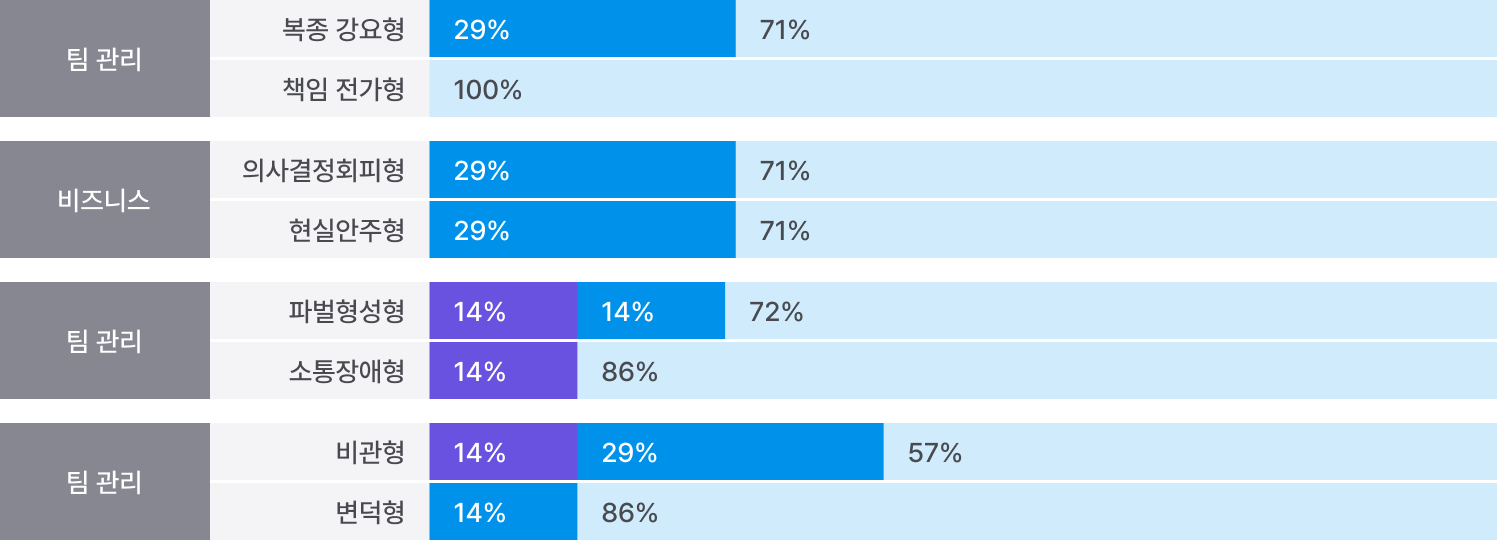
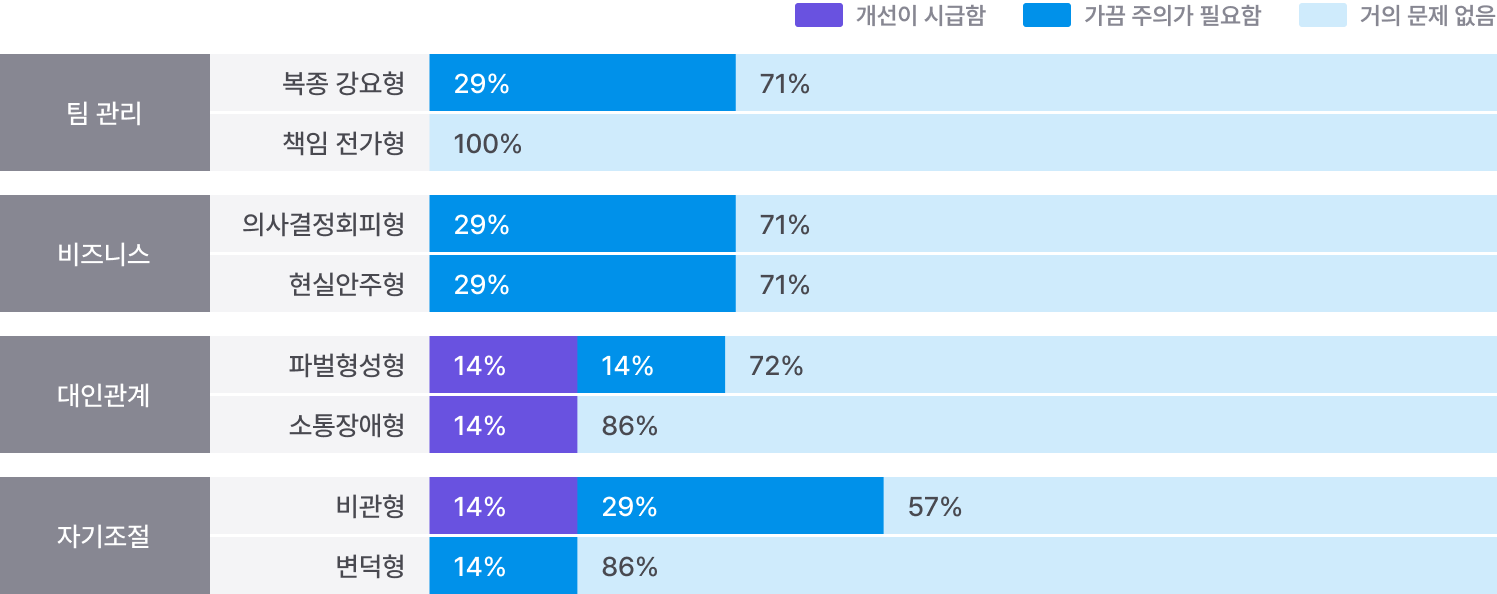
page-22 chage info import

diff --git a/index.html b/index.html
@@ -1900,6 +1900,12 @@
                     </div>
                   </div>
                   <img style="width:930px;" src="image/sub-image/page-22/bar-graph-table.png"/>
+                  <div class="info mt20">
+                    <span class="material-symbols-outlined"
+                      >arrow_right</span
+                    >
+                    상기 그래프는 N/O(관찰 기회 없음)를 제외한 결과입니다.
+                  </div>
                   <div class="text-container mt50">
                     <div class="personal-result-title mb20">
                       경계가 필요한 유형
